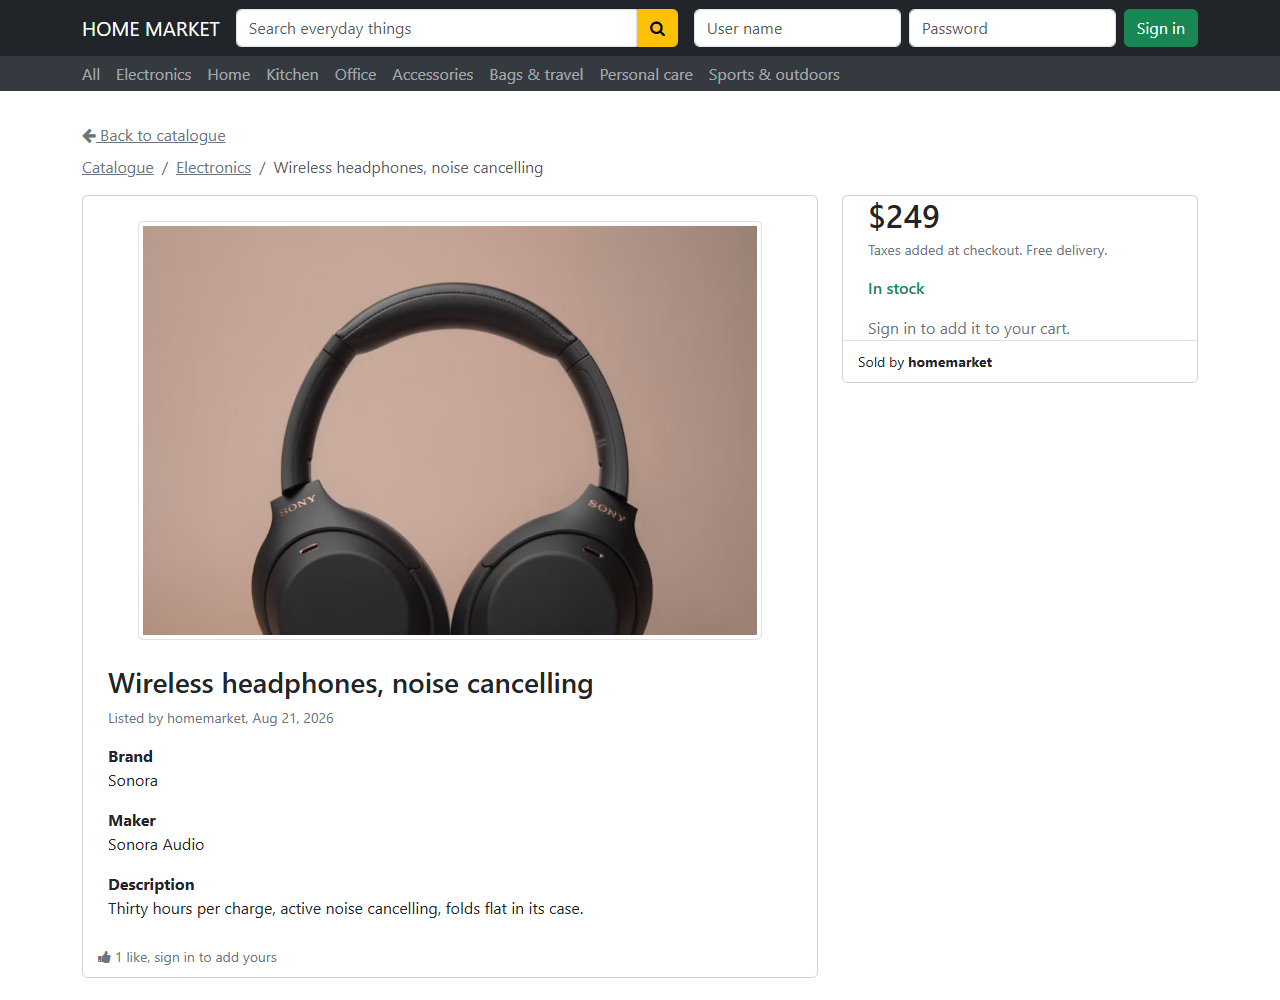
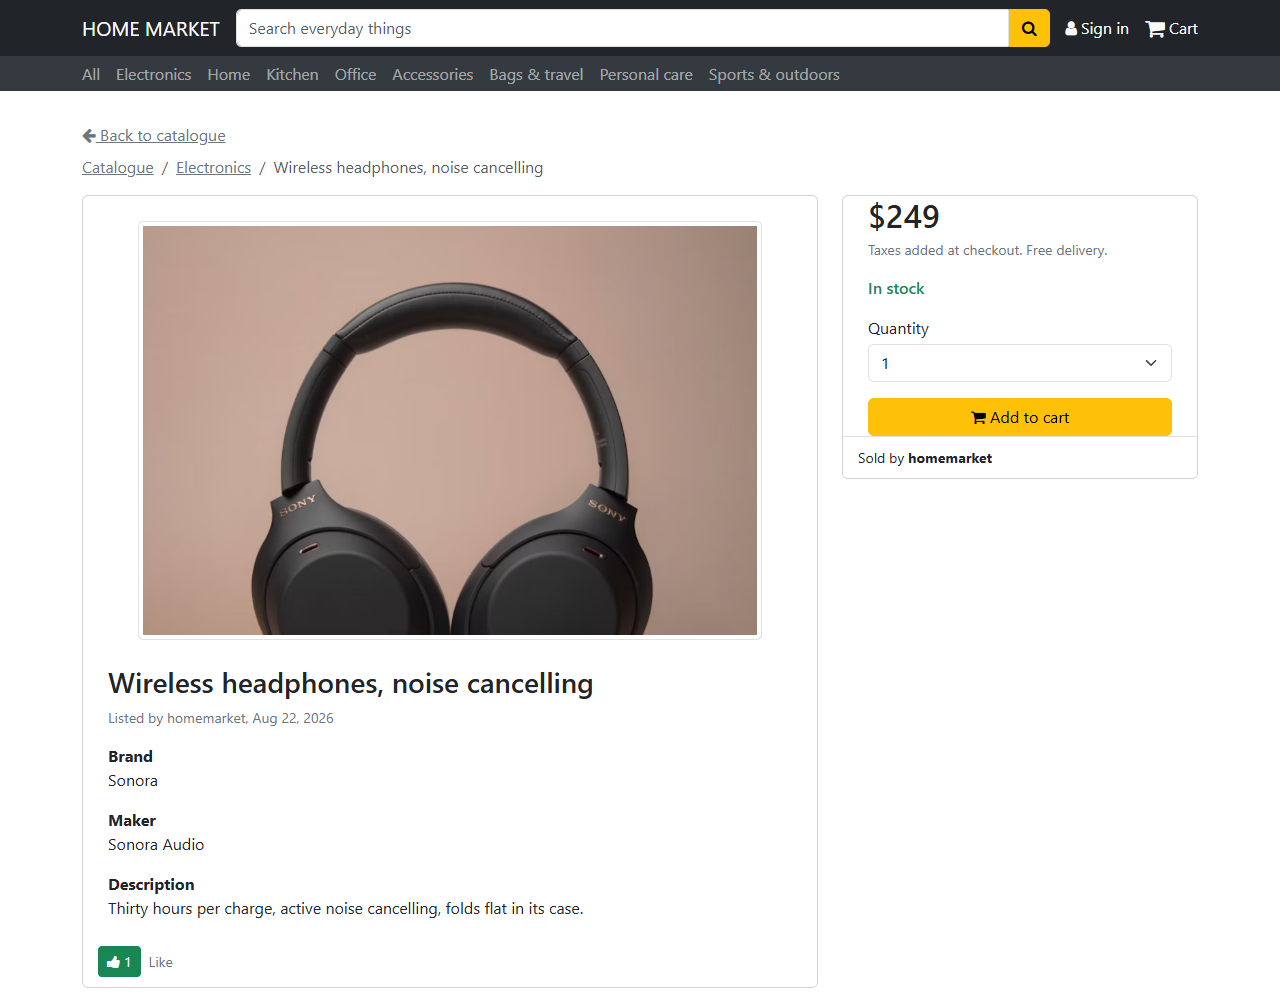
Describe the sign-in flow, with the two pages in the screenshots

diff --git a/README.md b/README.md
@@ -15,13 +15,17 @@ with Bootstrap, Font Awesome and ngx-toastr.
 
 ## Screenshots
 
-![The front page: a dark bar with HOME MARKET, a search box with a yellow button, a sign-in form; under it a grey strip of categories, All, Electronics, Home, Kitchen, Office, Accessories, Bags & travel, Personal care, Sports & outdoors; then Shop everyday things, a Sign up button and a grid of product cards six a row, each with its photo, its title, its price, In stock or Only 2 left, and a small blue quick view button](preview.png)
+![The front page: a dark bar with HOME MARKET, a search box with a yellow button, a Sign in link and the cart; under it a grey strip of categories, All, Electronics, Home, Kitchen, Office, Accessories, Bags & travel, Personal care, Sports & outdoors; then Shop everyday things, a Sign up button and a grid of product cards six a row, each with its photo, its title, its price, In stock or Only 2 left, and three small buttons, quick view, like and cart](preview.png)
+
+![The Sign in page: a card with User name, Password and a yellow Sign in button, under it New to HOME MARKET? Create your account, and a blue toast at the bottom right reading Please sign in to continue, because a visitor just clicked a like](preview-sign-in.png)
+
+![The Create account page: User name with its rule, Password with At least 8 characters, Re-enter password, a yellow Create your account button, and Already have an account? Sign in](preview-sign-up.png)
 
 ![The Kitchen category: five cards, a mug, two bottles, a toaster and a kettle, each with three small square buttons, quick view, like and cart, Kitchen underlined in the strip](preview-category.png)
 
 ![The quick view over the catalogue: a dialog with the headphones photo on the left and, on the right, $249, In stock, brand, maker, category, sold by, the description, a small like button, a yellow Add to cart button and a link See the full page](preview-quick-view.png)
 
-![A product page as a visitor sees it: the breadcrumb Catalogue, Electronics, Wireless headphones; the photo, brand, maker and description; and on the right the buy box with the price, In stock and Sign in to add it to your cart](preview-detail-visitor.png)
+![A product page as a visitor sees it, with Sign in and Cart in the bar: a Back to catalogue link, the breadcrumb Catalogue, Electronics, Wireless headphones; the photo, brand, maker and description with a small like button; and on the right the buy box with the price, In stock, a quantity and a yellow Add to cart button, exactly as a member sees it](preview-detail-visitor.png)
 
 ![The catalogue once signed in: the bar now reads Messages, Welcome, omar and Cart; every card has a quick view, a like and a cart button, the helmet reads Out of stock with its cart button greyed, and a green toast reads Added to your likes](preview-member.png)
 
@@ -123,7 +127,19 @@ mark it read, which opening it does.
 `PasswordHasher`, the same 401 for a wrong name and a wrong password,
 five attempts a minute per client address, a JWT signed with a key that
 lives outside the repository, hardening headers on every answer, CORS
-for the front end only.
+for the front end only. Sign up and sign in are pages of their own,
+each linking to the other; there is no password recovery yet, as in
+the `Identity.API` of eShop, and it is the next step, behind an
+`IEmailSender` the way the payment sits behind `IPaymentGateway`.
+
+**Nobody is asked to sign in ahead of time.** A visitor sees the same
+buttons as a member: like, cart, Message on every card, in the quick
+view and on the product page. The first click on any of them says
+"Please sign in to continue", opens the sign-in page, and brings the
+visitor back where they were once they are in (`SignInPrompt`, and the
+route guard does the same for the cart, the checkout, the orders and
+the messages). The API refuses the same actions with a 401 whatever the
+front end does.
 
 **The page and the quick view.** The photo and the title of a card open
 the product page, as on Amazon or in eShop; the small blue button opens
@@ -137,8 +153,9 @@ way eBay places its seller box; the like is a small square with its
 count, as on the cards.
 
 **Two bars, as on any shop.** The first holds the brand, the search box
-and, for a visitor, the sign-in form; for a member, Messages, an account
-menu (my products, my orders, my sales, sell, sign out) and the cart.
+and the cart, with a Sign in link for a visitor and, for a member,
+Messages and an account menu (my products, my orders, my sales, sell,
+sign out).
 Empty, the cart is a plain icon; with something in it, a filled pill
 with the count next to the icon, never a badge over it, as in eShop's
 `CartMenu`. The second bar is the strip of categories, which scrolls
@@ -186,8 +203,9 @@ npm install
 npm start
 ```
 
-Open `http://localhost:4200/`, browse, sign up from the front page, sign
-in from the bar.
+Open `http://localhost:4200/`, browse, create an account from Sign up,
+sign in from the Sign in link, or just click a like and let the shop
+walk you there.
 
 ## Tests
 
@@ -221,11 +239,12 @@ From `web`:
 npm test
 ```
 
-Seventy-six Vitest tests through `TestBed`: the session service, the
-interceptor, the guard and the API messages; the product, cart and
+Eighty-six Vitest tests through `TestBed`: the session service, the
+interceptor, the guard, the sign-in prompt, the sign-in and sign-up
+pages and the API messages; the product, cart and
 message services against `HttpTestingController`; the two bars for a
-visitor and a member, with the search and the cart count; the card for
-a visitor, a member and a seller, with its cart button; the quick view
+visitor and a member, with the search and the cart count; the card, its
+like and cart buttons for everyone and its edit button for the seller; the quick view
 that opens with a product and tells the list when it closes; the list
 with its three sources and its likes; the product page with its buy box
 and its quantities; the form for a new and for an existing product; the
@@ -255,9 +274,11 @@ caisse avec une carte (passerelle de paiement derrière une interface,
 carte jamais conservée), on reçoit une
 commande avec ses lignes figées au prix du jour et les taxes du Québec,
 on vend ses propres produits, on suit ses ventes, on aime des fiches et
-on écrit au vendeur. Personne ne peut toucher l'annonce, le panier, la
+on écrit au vendeur. Un visiteur voit les mêmes boutons qu'un membre et
+n'est invité à se connecter qu'au premier clic, puis revient où il
+était. Personne ne peut toucher l'annonce, le panier, la
 commande ni le courrier d'un autre : l'identité vient du jeton, jamais
-d'un en-tête. Cinquante-deux tests xUnit sur les contrôleurs (Moq, AutoFixture, Etant donné / Lorsque / Alors) et soixante-seize tests Vitest.
+d'un en-tête. Cinquante-deux tests xUnit sur les contrôleurs (Moq, AutoFixture, Etant donné / Lorsque / Alors) et quatre-vingt-six tests Vitest.
 
 ## Licence
 
